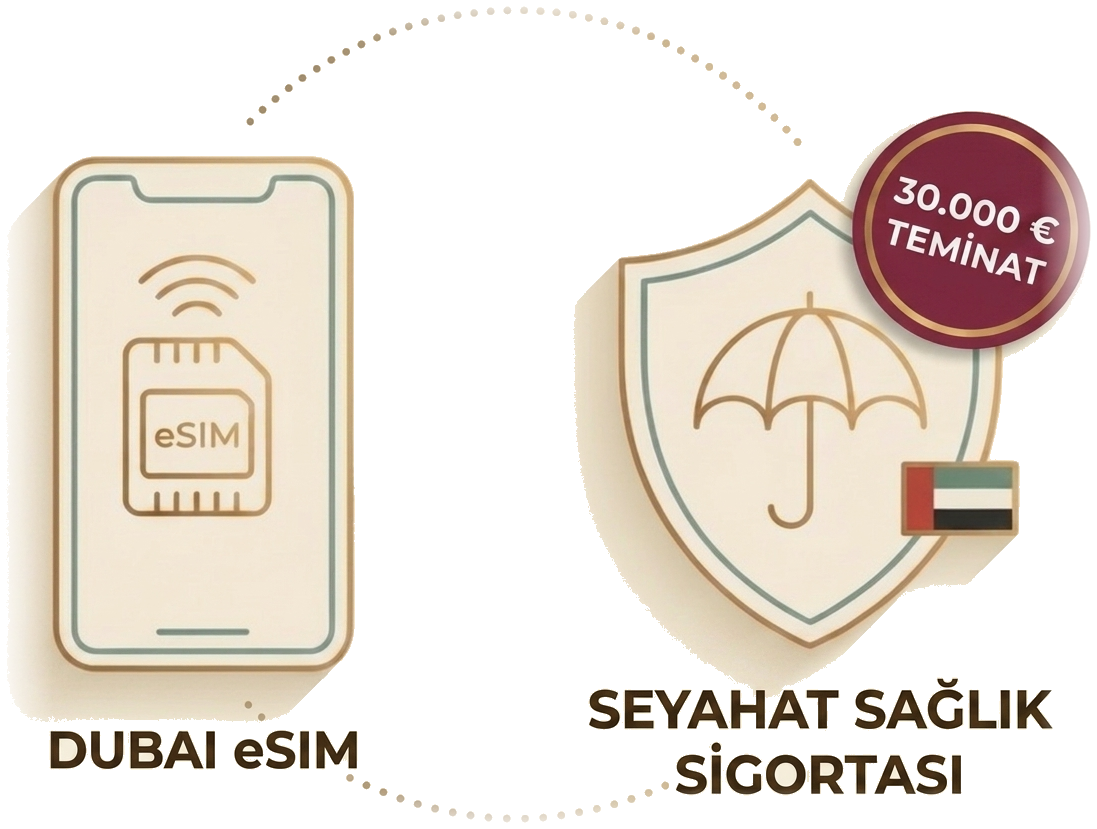
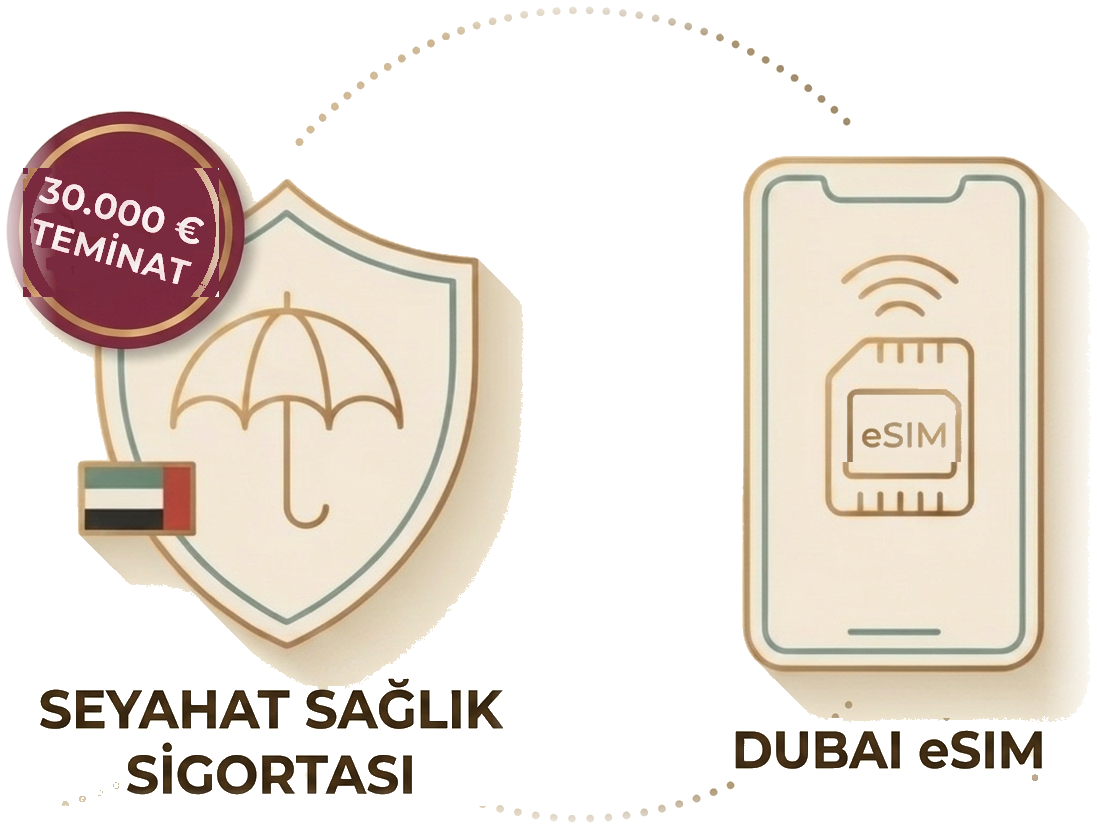
## Dört düzeltme tamam - **Animasyonda yer değişti**: sigorta kalkanı artık solda, eSIM telefonu sağda — sahne başlığı ("Seyahat sigortası ve Dubai eSIM") ve seslendirmeyle aynı sıra. Görsel aynalanıp tüm yazılar (etiketler, 30.000 € TEMİNAT rozeti, çip içi "eSIM") düz kalacak şekilde yeniden yazıld
Doğrulama: 390px mobil ölçümler + ekran görüntüleri, tıklama öncesi/sonrası çerçeve renkleri kontrol edildi. Backend testleri: 499 passed — kalan 6 hata `/api/contact` uçtaki **rate limit (429)** kaynaklı test artefaktı (aynı IP'den arka arkaya istek); tek tek çalıştırıldığında hepsi geçiyor, ürün kodunda sorun yok.

- Next Action Items:
  - **Havale Bilgileri**: Gerçek banka unvanı ve IBAN'ları verin, örnek bilgileri gerçeğiyle değiştirelim
  - **WhatsApp Canlı Mod**: Meta uygulama bilgilerinizi girin, bot müşterilere kendi kendine yanıt vermeye başlasın
  - **Takip Sayacı**: Takip sayfasına 36 saatlik geri sayım koyup müşteriye süreci canlı gösterelim
  - **Garanti Takibi**: 36 saati aşan başvuruları panelde işaretleyip iadeyi otomatik hatırlatalım

diff --git a/frontend/src/components/VisaTypeCard.jsx b/frontend/src/components/VisaTypeCard.jsx
@@ -4,13 +4,24 @@ import { ArrowRight, Check, Clock, Star } from "lucide-react";
 import { Button } from "./ui/button";
 import { applyPath, formatMoney, formatUsd } from "../lib/site";
 
-export const VisaTypeCard = ({ visa, onSelect, selected = false, compact = false, hasGuide = false }) => {
+export const VisaTypeCard = ({
+    visa,
+    onSelect,
+    onHighlight,
+    selected = false,
+    compact = false,
+    hasGuide = false,
+}) => {
     const isPopular = !!visa.popular;
+    // Bilgilendirme sayfalarinda kart tiklaninca yalnizca cerceve vurgulanir (onHighlight);
+    // basvuru formunda ise vize gercekten secilir (onSelect).
+    const pick = onSelect || onHighlight;
+    const popularEmphasis = isPopular && !onHighlight;
 
     // Kart yalnizca secim modunda (basvuru formu) tiklanabilir; bilgilendirme
     // sayfalarinda kullanicinin istemeden forma yonlendirilmesini engellemek icin
     // yalnizca "Basvuruya basla" butonu yonlendirir.
-    const clickable = !!onSelect;
+    const clickable = !!pick;
 
     return (
         <div
@@ -18,15 +29,16 @@ export const VisaTypeCard = ({ visa, onSelect, selected = false, compact = false
             role={clickable ? "button" : undefined}
             tabIndex={clickable ? 0 : undefined}
             aria-label={clickable ? `${visa.name} vizesini seç` : undefined}
+            aria-pressed={onHighlight ? selected : undefined}
             onClick={clickable ? (e) => {
                 if (e.target.closest("a,button")) return;
-                onSelect(visa);
+                pick(visa);
             } : undefined}
             onKeyDown={clickable ? (e) => {
                 if (e.key === "Enter" || e.key === " ") {
                     e.preventDefault();
                     if (e.target.closest("a,button")) return;
-                    onSelect(visa);
+                    pick(visa);
                 }
             } : undefined}
             className={`group relative flex h-full flex-col overflow-hidden rounded-[var(--radius-lg)] border bg-card transition-[box-shadow,border-color,transform] duration-200 hover:-translate-y-0.5 hover:shadow-[var(--shadow-soft)] focus-visible:outline-none ${
@@ -34,18 +46,18 @@ export const VisaTypeCard = ({ visa, onSelect, selected = false, compact = false
             } ${
                 selected
                     ? "border-primary ring-2 ring-primary/25"
-                    : isPopular
+                    : popularEmphasis
                       ? "border-foreground/25 ring-1 ring-foreground/10"
                       : "border-border hover:border-foreground/20"
             }`}
-            style={{ boxShadow: isPopular || selected ? "var(--shadow-soft)" : "var(--shadow-card)" }}
+            style={{ boxShadow: popularEmphasis || selected ? "var(--shadow-soft)" : "var(--shadow-card)" }}
         >
             <span
                 className={`h-1 w-full shrink-0 ${
-                    selected
+                    selected || popularEmphasis
                         ? "bg-primary"
                         : isPopular
-                          ? "bg-primary"
+                          ? "bg-primary/40"
                           : "bg-border"
                 }`}
                 aria-hidden="true"

diff --git a/frontend/src/components/PricingTabs.jsx b/frontend/src/components/PricingTabs.jsx
@@ -19,6 +19,7 @@ export const PricingTabs = ({ compactHeading = false }) => {
     const [discountText, setDiscountText] = useState("");
     const [guideSlugs, setGuideSlugs] = useState([]);
     const [active, setActive] = useState("single");
+    const [pickedId, setPickedId] = useState(null);
     const [loading, setLoading] = useState(true);
 
     useEffect(() => {
@@ -35,6 +36,11 @@ export const PricingTabs = ({ compactHeading = false }) => {
     }, []);
 
     const visible = visaTypes.filter((v) => (v.category || "single") === active);
+    // Baslangicta "en cok tercih edilen" kart vurgulu gelir; kullanici baska bir karta
+    // tiklarsa vurgu o karta gecer.
+    const highlightedId = visible.some((v) => v.id === pickedId)
+        ? pickedId
+        : visible.find((v) => v.popular)?.id;
 
     return (
         <div data-testid="pricing-tabs">
@@ -50,7 +56,10 @@ export const PricingTabs = ({ compactHeading = false }) => {
                             type="button"
                             role="tab"
                             aria-selected={active === c.id}
-                            onClick={() => setActive(c.id)}
+                            onClick={() => {
+                                setActive(c.id);
+                                setPickedId(null);
+                            }}
                             data-testid={`pricing-tab-${c.id}`}
                             className={`min-h-[44px] rounded-xl px-4 text-sm font-bold transition-colors duration-150 focus-visible:outline-none ${
                                 active === c.id
@@ -103,6 +112,8 @@ export const PricingTabs = ({ compactHeading = false }) => {
                               key={visa.id}
                               visa={visa}
                               hasGuide={guideSlugs.includes(visa.slug)}
+                              selected={visa.id === highlightedId}
+                              onHighlight={(v) => setPickedId(v.id)}
                           />
                       ))}
             </div>

diff --git a/frontend/src/components/VisaExplainer.jsx b/frontend/src/components/VisaExplainer.jsx
@@ -295,12 +295,12 @@ export const VisaExplainer = () => {
                             </div>
 
                             {scene.cta && (
-                                <div className="mt-4 flex items-center gap-2.5">
+                                <div className="mt-4 flex flex-wrap items-center gap-2.5">
                                     <motion.div
                                         initial={{ opacity: 0, scale: 0.9 }}
                                         animate={{ opacity: 1, scale: 1 }}
                                         transition={{ delay: 0.35, duration: 0.4 }}
-                                        className="flex shrink-0 items-center gap-2 rounded-xl border border-primary/25 bg-white/90 px-2.5 py-1.5 shadow-sm"
+                                        className="flex min-w-0 items-center gap-2 rounded-xl border border-primary/25 bg-white/90 px-2.5 py-1.5 shadow-sm"
                                         data-testid="explainer-tursab-seal"
                                     >
                                         <img

diff --git a/frontend/src/components/HomeBundleStrip.jsx b/frontend/src/components/HomeBundleStrip.jsx
@@ -320,7 +320,7 @@ export const HomeBundleStrip = () => {
 
                 <div className="mt-7 -mx-4 flex snap-x snap-mandatory gap-4 overflow-x-auto px-4 pb-3 lg:mx-0 lg:grid lg:grid-cols-3 lg:gap-5 lg:overflow-visible lg:px-0 lg:pb-0">
                     {bundles.map((b) => (
-                        <div key={b.id} className="w-[87%] shrink-0 snap-start lg:w-auto">
+                        <div key={b.id} className="w-full shrink-0 snap-start lg:w-auto">
                             <BundleCard bundle={b} highlighted={b.id === popularId} />
                         </div>
                     ))}

diff --git a/backend/application_pdf.py b/backend/application_pdf.py
@@ -66,6 +66,14 @@ MARITAL_LABELS = {
     "divorced": "Boşanmış",
     "widowed": "Eşi vefat etmiş",
 }
+NATIONALITY_LABELS = {
+    "TR": "Türkiye",
+    "TUR": "Türkiye",
+    "TURKEY": "Türkiye",
+    "TÜRKIYE": "Türkiye",
+    "TURKIYE": "Türkiye",
+    "TÜRKİYE": "Türkiye",
+}
 TRAVEL_WINDOWS = {
     "this_month": "Bu ay içinde",
     "1_3_months": "1-3 ay içinde",
@@ -94,6 +102,12 @@ def _safe(value) -> str:
     """Kullanici metnini ReportLab markup'ina karsi kacisir (etiket enjeksiyonu/dis kaynak yok)."""
     text = str(value).strip() if value not in (None, "") else "-"
     return xml_escape(text)
+
+
+def _nationality(value) -> str:
+    """Pasaport/uyruk kodunu okunur ulke adina cevirir (TR -> Türkiye)."""
+    raw = str(value or "").strip()
+    return NATIONALITY_LABELS.get(raw.upper(), raw)
 
 
 def _date(value) -> str:
@@ -126,19 +140,17 @@ def _styles() -> dict:
 
 
 def _header(app_doc: dict, st: dict) -> Table:
-    right = [Paragraph("Dubai Vizesi<br/>Başvuru Detayları", st["title_head"])]
-    cells = []
+    """Solda logo, ortada (sayfa merkezinde) iki satirlik baslik."""
     if os.path.exists(LOGO_FILE):
-        cells.append(Image(LOGO_FILE, width=52 * mm, height=52 * mm * 0.23, kind="proportional"))
+        logo = Image(LOGO_FILE, width=52 * mm, height=52 * mm * 0.23, kind="proportional")
     else:
-        cells.append(Paragraph(BRAND, st["title"]))
-    cells.append(right)
-    table = Table([cells], colWidths=_cols(56, 124))
+        logo = Paragraph(BRAND, st["title"])
+    title = Paragraph("Dubai Vizesi<br/>Başvuru Detayları", st["title_head"])
+    table = Table([[logo, title, ""]], colWidths=_cols(56, 68, 56))
     table.setStyle(
         TableStyle(
             [
                 ("VALIGN", (0, 0), (-1, -1), "MIDDLE"),
-                ("ALIGN", (1, 0), (1, 0), "RIGHT"),
                 ("LEFTPADDING", (0, 0), (-1, -1), 0),
                 ("RIGHTPADDING", (0, 0), (-1, -1), 0),
                 ("LINEBELOW", (0, 0), (-1, -1), 1.4, GOLD),
@@ -302,7 +314,7 @@ def _traveler_extra_pairs(app_doc: dict) -> list:
         return []
     t = travelers[0]
     return [
-        ("Uyruk", t.get("nationality")),
+        ("Uyruğu", _nationality(t.get("nationality"))),
         ("Doğum yeri", t.get("birth_place")),
         ("Medeni hal", MARITAL_LABELS.get(t.get("marital_status") or "", t.get("marital_status"))),
         ("Meslek", t.get("profession")),

diff --git a/scripts/swap_extras_sides.py b/scripts/swap_extras_sides.py
@@ -1,0 +1,61 @@
+"""extras.png: kalkan (sigorta) sola, telefon (eSIM) saga alinir.
+
+Gorsel yatay aynalanir; aynalama yazilari da ters cevirdigi icin dort metin ogesi
+(iki etiket, rozet yazisi, SIM cip yazisi) blok halinde duz sekilde geri yazilir.
+Aynalanmis metin once genisletilmis maske ile zemine dondurulur (hayalet kalmasin).
+"""
+from PIL import Image, ImageFilter, ImageOps
+
+SRC = "/app/frontend/public/explainer/extras.png"
+
+img = Image.open(SRC).convert("RGBA")
+W, H = img.size
+out = ImageOps.mirror(img)
+
+
+def dark(p):
+    r, g, b, a = p
+    return a > 30 and r < 205 and g < 195 and b < 185
+
+
+def badge_text(p):
+    r, g, b, a = p
+    return a > 30 and r > 160 and g > 120
+
+
+def chip_text(p):
+    r, g, b, a = p
+    return a > 30 and r < 225 and g < 215
+
+
+ELEMENTS = [
+    ((40, 718, 372, 782), dark, (0, 0, 0, 0)),  # "DUBAI eSIM"
+    ((578, 666, 1068, 806), dark, (0, 0, 0, 0)),  # "SEYAHAT SAGLIK SIGORTASI"
+    ((878, 168, 1074, 297), badge_text, (122, 42, 62, 255)),  # rozet yazisi
+    ((133, 388, 257, 462), chip_text, (243, 231, 215, 255)),  # cip icindeki "eSIM"
+]
+
+
+def mask_of(crop: Image.Image, pred) -> Image.Image:
+    px = crop.load()
+    w, h = crop.size
+    mask = Image.new("L", (w, h), 0)
+    mpx = mask.load()
+    for y in range(h):
+        for x in range(w):
+            if pred(px[x, y]):
+                mpx[x, y] = 255
+    return mask
+
+
+for (x0, y0, x1, y1), pred, bg in ELEMENTS:
+    crop = img.crop((x0, y0, x1, y1))
+    keep = mask_of(crop, pred)
+    clear = ImageOps.mirror(keep).filter(ImageFilter.MaxFilter(9))
+    box = (W - x1, y0)
+    out.paste(Image.new("RGBA", crop.size, bg), box, clear)
+    out.paste(crop, box, keep)
+    print(f"{(x0, y0, x1, y1)} -> x={box[0]}")
+
+out.save(SRC)
+print("saved", SRC)

diff --git a/memory/PRD.md b/memory/PRD.md
@@ -1426,3 +1426,33 @@ Ayrıntı: CHANGELOG.md "2026-09-08 (3)" ve "(4)". Özet:
    `title_head` stili); yolcu tablosu "Son Gecerlilik Tarihi" -> "Gecerlilik Tarihi"
    (kolonlar 6/40/22/26/24/36/26 mm).
 - pytest 505 passed / 5 skipped; ana sayfa + /vize-tipleri ekran goruntuleriyle dogrulandi.
+
+## 2026-06-15 (5) · Mobil rotuslar + kart secimi + extras gorseli
+1. **extras.png yer degistirildi**: kalkan (seyahat sagligi sigortasi) SOLA, telefon (eSIM)
+   SAGA alindi — sahne basligi "Seyahat sigortasi ve Dubai eSIM" ile ayni sira.
+   `scripts/swap_extras_sides.py`: gorsel yatay aynalanir, dort metin ogesi (iki etiket,
+   rozet yazisi, cip ici "eSIM") genisletilmis maskeyle temizlenip blok halinde duz yazilir.
+   Yedek: /tmp/extras.prev.png (orijinal frontend/public/explainer/extras.old.jpg da duruyor).
+2. **Anlatim CTA butonu mobilde tam gorunuyor**: `VisaExplainer` cta satiri `flex-wrap`,
+   TURSAB muhru `shrink-0` yerine `min-w-0` — buton alt satira sarkiyor, kesilmiyor.
+3. **Paket kartlari mobilde ekrana sigiyor**: `HomeBundleStrip` kart genisligi
+   `w-[87
+## 2026-06-15 (5) · Mobil rotuslar + kart secimi + extras gorseli
+1. **extras.png yer degistirildi**: kalkan (seyahat sagligi sigortasi) SOLA, telefon (eSIM)
+   SAGA alindi — sahne basligi "Seyahat sigortasi ve Dubai eSIM" ile ayni sira.
+   `scripts/swap_extras_sides.py`: gorsel yatay aynalanir, dort metin ogesi (iki etiket,
+   rozet yazisi, cip ici "eSIM") genisletilmis maskeyle temizlenip blok halinde duz yazilir.
+   Yedek: /tmp/extras.prev.png (extras.old.jpg da duruyor).
+2. **Anlatim CTA butonu mobilde tam gorunuyor**: `VisaExplainer` cta satiri `flex-wrap`,
+   TURSAB muhru `shrink-0` yerine `min-w-0` — buton alt satira sarkiyor, kesilmiyor.
+3. **Paket kartlari mobilde ekrana sigiyor**: `HomeBundleStrip` kart genisligi
+   `w-[87%]` -> `w-full` (lg`de grid ayni); kaydirma ipucu duruyor.
+4. **Vize karti secimi (kullanici istegi)**: /vize-tipleri sayfasinda "en cok tercih edilen"
+   kart kalici vurgulu kaliyordu. `VisaTypeCard` yeni `onHighlight` prop`u aldi (secim
+   modundan ayri: yalnizca cerceve vurgular, CTA metni degismez); populer vurgusu artik
+   `popularEmphasis = isPopular && !onHighlight`. `PricingTabs` `pickedId` state`i tutuyor;
+   baslangicta populer kart vurgulu, tiklanan kart vurguyu aliyor, sekme degisince sifirlanir.
+- Dogrulama: 390px viewport`ta CTA butonu tam (x=58 w=148), paket karti 358px genislikte
+  (ekrana sigiyor), extras sahnesi ekran goruntusuyle kontrol edildi; /vize-tipleri
+  tiklama oncesi/sonrasi computed border renkleri dogrulandi (populer -> notr,
+  tiklanan -> primary).
